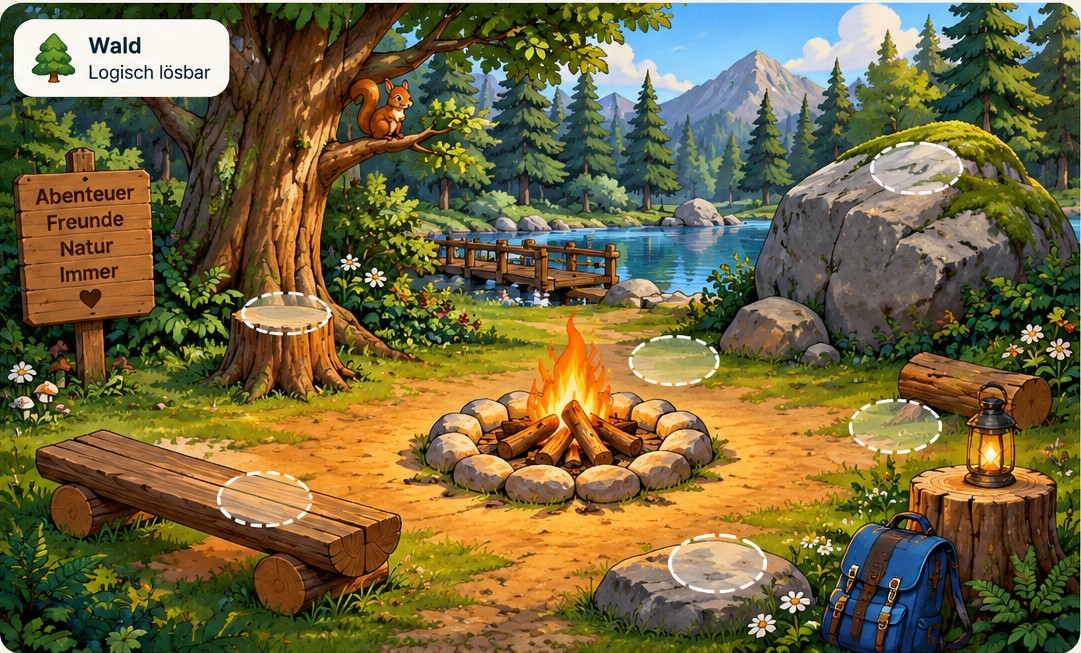
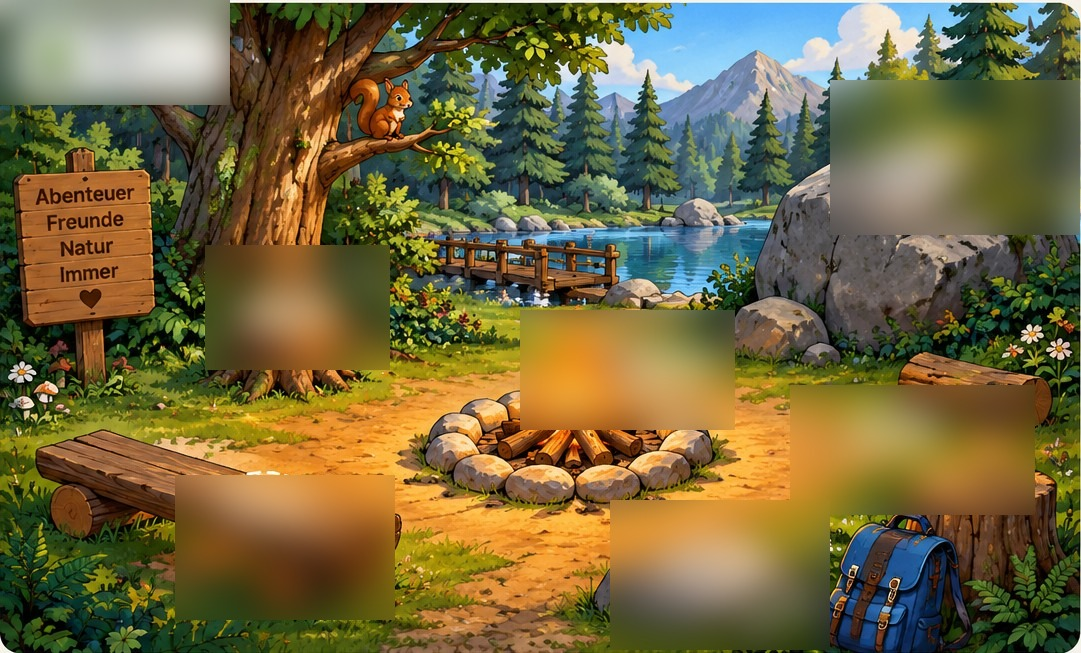
Add files via upload

diff --git a/index.html b/index.html
@@ -83,7 +83,7 @@ header{margin:0 2px 8px}.brand{font-size:31px}.infobtn{width:42px;height:42px;fo
 /* 0.7.7: Platzspiel-Schwierigkeit und sicherer Einstieg */
 .seat-diffbar{display:flex;gap:7px;margin:0 0 9px}.seat-diffbar button{flex:1;border:1px solid #0001;background:#fff9;border-radius:999px;padding:7px 6px;font:inherit;font-size:11px;font-weight:850;color:var(--ink)}.seat-diffbar button.active{background:var(--ink);color:#fff}
 .clue.entry{box-shadow:inset 4px 0 0 #2f7d4b;background:#f1fbf3}.clue.entry span:after{content:"  · Sicherer Einstieg";font-size:10px;color:#2f7d4b;font-weight:900}.clue.chain{box-shadow:inset 4px 0 0 #7aa7c7}.clue.weak{box-shadow:inset 4px 0 0 #d8a84e;background:#fffaf0}.clue.weak span:after{content:"  · Zusatzhinweis";font-size:10px;color:#9a6b16;font-weight:900}
-</style></head><body><main class="app"><header><div class="brand">Wildoku 🦊 <span class="beta-label">BETA</span></div><div class="topactions"><button class="infobtn" id="infoBtn" aria-label="Anleitung">?</button><div class="badge" id="net">bereit</div></div></header><div class="game-switch"><button id="gameWildoku" class="active">🦊 Wildoku</button><button id="gameSeats">🪑 Platzspiel</button></div><div class="updatebar" id="updatebar"><span id="updatebarText">Neue Wildoku-Version verfügbar.</span><div class="updateactions"><button class="secondary" id="updateLater">Später</button><button id="updatebtn">Jetzt aktualisieren</button></div></div><div class="wildoku-game" id="wildokuGame"><div class="sizebar" id="sizebar"><button class="sizebtn" data-size="5">5×5</button><button class="sizebtn active" data-size="6">6×6</button><button class="sizebtn" data-size="7">7×7</button><button class="sizebtn" data-size="8">8×8</button><button class="sizebtn" data-size="random">🎲 Zufall</button></div><div class="diffbar" id="diffbar"><button class="diffbtn" data-diff="relaxed">Entspannt</button><button class="diffbtn active" data-diff="normal">Normal</button><button class="diffbtn" data-diff="tricky">Knifflig</button></div><section class="info"><div><div class="level" id="level">Rätsel</div><div class="sub" id="sub">Wird lokal erzeugt …</div></div><div class="rightinfo"><div class="lives" id="lives">❤❤❤</div><div class="timer" id="timer">00:00</div></div></section><div class="boardwrap"><div class="board" id="board"></div><div class="creating" id="creating">Bitte warten …<br>Level wird erstellt</div></div><div class="status" id="status"></div><div class="helps"><button class="helpbtn" id="hint">💡 Tipp <span id="hintCount">3</span></button><button class="helpbtn" id="reveal">🦊 Tier zeigen <span id="revealCount">1</span></button></div><div class="hintbox" id="hintbox"></div><div class="controls"><button class="btn" id="undo">↶ Rückgängig</button><button class="btn" id="new">✨ Neues Rätsel</button><button class="btn" id="reset">↻ Neustart</button></div><div class="legend"><b>Bedienung:</b> 1× tippen = ✕ Ausschluss · 2× tippen = 🦊 Tier · gedrückt halten = ? Kandidat.</div></div><section class="seatgame" id="seatGame"><div class="seat-title"><div><h2>🪑 Platzrätsel</h2><small id="seatSceneName">🏫 Klassenzimmer · logisch lösbar</small></div><div id="seatLives">❤❤❤</div></div><div class="seat-diffbar" id="seatDiffbar"><button data-seatdiff="relaxed">Entspannt</button><button data-seatdiff="normal" class="active">Normal</button><button data-seatdiff="tricky">Knifflig</button></div><div class="seat-scene"><div class="place-scene scene-classroom" id="classroom"></div><div class="seatbank" id="seatBank"></div><div class="seat-status" id="seatStatus">Ziehe die Personen anhand der Hinweise auf ihre Plätze.</div></div><div class="clues" id="seatClues"></div><div class="seat-help"><button id="seatReset">↻ Neustart</button><button id="seatHint">💡 Tipp</button></div></section></main><div class="modal" id="infoModal"><div class="modalcard"><div id="wildHelp"><h2>🦊 Wildoku – Hilfe</h2><p><b>1× tippen</b> = ✕ Ausschluss<br><b>2× tippen</b> = 🦊 Tier<br><b>Gedrückt halten</b> = ? Kandidat</p><p>In jeder Zeile, Spalte und Farbregion steht genau ein Tier. Tiere dürfen sich auch diagonal nicht berühren.</p><p>Du hast pro Rätsel <b>3 Leben</b>, <b>3 Tipps</b> und <b>1× Tier zeigen</b>.</p><div class="settingrow"><span><b>Zonengrenzen</b><br><small>Nur für Wildoku</small></span><button class="switch" id="regionToggle">Ein</button></div><p class="difficulty-note">Entspannt: direkte Logik · Normal: längere Schlussketten · Knifflig: darf gelegentlich eine Annahme verlangen.</p></div><div id="seatHelp" style="display:none"><h2>🪑 Platzspiel – Hilfe</h2><p>Ziehe eine Figur auf einen Platz oder tippe zuerst die Figur und danach den Platz an. Eine ausgewählte Figur wird deutlich markiert.</p><p>Nutze die Hinweise als Logikkette. <b>Entspannt</b> bietet mehr direkte Einstiege, <b>Normal</b> kombiniert Namen und sichtbare Merkmale, <b>Knifflig</b> darf gelegentlich zwei plausible Möglichkeiten offenlassen. Du hast <b>3 Leben</b>.</p><p>Hinweise können Personen auch über Merkmale beschreiben, z. B. „der Mann mit dem Bart“ oder „die Frau mit dem Hut“. In Waldleveln kann auch der <b>Wildoku-Fuchs</b> selbst mitspielen.</p></div><hr style="border:0;border-top:1px solid #0001;margin:16px 0"><p class="difficulty-note">Wildoku Beta 0.9.8</p><div class="settingrow"><span><b>Internet in Wildoku</b><br><small id="networkModeText">Erlaubt automatische Updateprüfung</small></span><button class="switch" id="networkToggle">Online</button></div><div class="settingrow"><span><b>Updates</b><br><small id="updateStatus">Manuell nach einer neuen Version suchen</small></span><button class="switch" id="checkUpdateBtn">Suchen</button></div><div class="sharecard"><b>📱 Wildoku teilen</b><p>„Ich hab ein Spiel mit ChatGPT gemacht. Wenn du magst, kannst du es auch spielen. Ich kann dir den Link schicken oder du scannst den QR-Code.“</p><img id="shareQr" alt="QR-Code zu Wildoku"><div class="shareactions"><button id="shareLinkBtn">Link teilen</button><button id="copyLinkBtn">Link kopieren</button></div><div class="shareinstall"><p><b>📱 Als App installieren</b><br><b>iPhone / iPad:</b> in Safari öffnen → Teilen → „Zum Home-Bildschirm“.<br><b>Android:</b> in Chrome öffnen → Menü ⋮ → „Zum Startbildschirm hinzufügen“ bzw. „App installieren“.</p><p><b>Danach auch offline spielbar.</b> Keine Werbung, kein Konto nötig.</p></div></div><button class="modalclose" id="infoClose">Schließen</button></div></div><div class="toast" id="toast"></div>
+</style></head><body><main class="app"><header><div class="brand">Wildoku 🦊 <span class="beta-label">BETA</span></div><div class="topactions"><button class="infobtn" id="infoBtn" aria-label="Anleitung">?</button><div class="badge" id="net">bereit</div></div></header><div class="game-switch"><button id="gameWildoku" class="active">🦊 Wildoku</button><button id="gameSeats">🪑 Platzspiel</button></div><div class="updatebar" id="updatebar"><span id="updatebarText">Neue Wildoku-Version verfügbar.</span><div class="updateactions"><button class="secondary" id="updateLater">Später</button><button id="updatebtn">Jetzt aktualisieren</button></div></div><div class="wildoku-game" id="wildokuGame"><div class="sizebar" id="sizebar"><button class="sizebtn" data-size="5">5×5</button><button class="sizebtn active" data-size="6">6×6</button><button class="sizebtn" data-size="7">7×7</button><button class="sizebtn" data-size="8">8×8</button><button class="sizebtn" data-size="random">🎲 Zufall</button></div><div class="diffbar" id="diffbar"><button class="diffbtn" data-diff="relaxed">Entspannt</button><button class="diffbtn active" data-diff="normal">Normal</button><button class="diffbtn" data-diff="tricky">Knifflig</button></div><section class="info"><div><div class="level" id="level">Rätsel</div><div class="sub" id="sub">Wird lokal erzeugt …</div></div><div class="rightinfo"><div class="lives" id="lives">❤❤❤</div><div class="timer" id="timer">00:00</div></div></section><div class="boardwrap"><div class="board" id="board"></div><div class="creating" id="creating">Bitte warten …<br>Level wird erstellt</div></div><div class="status" id="status"></div><div class="helps"><button class="helpbtn" id="hint">💡 Tipp <span id="hintCount">3</span></button><button class="helpbtn" id="reveal">🦊 Tier zeigen <span id="revealCount">1</span></button></div><div class="hintbox" id="hintbox"></div><div class="controls"><button class="btn" id="undo">↶ Rückgängig</button><button class="btn" id="new">✨ Neues Rätsel</button><button class="btn" id="reset">↻ Neustart</button></div><div class="legend"><b>Bedienung:</b> 1× tippen = ✕ Ausschluss · 2× tippen = 🦊 Tier · gedrückt halten = ? Kandidat.</div></div><section class="seatgame" id="seatGame"><div class="seat-title"><div><h2>🪑 Platzrätsel</h2><small id="seatSceneName">🏫 Klassenzimmer · logisch lösbar</small></div><div id="seatLives">❤❤❤</div></div><div class="seat-diffbar" id="seatDiffbar"><button data-seatdiff="relaxed">Entspannt</button><button data-seatdiff="normal" class="active">Normal</button><button data-seatdiff="tricky">Knifflig</button></div><div class="seat-scene"><div class="place-scene scene-classroom" id="classroom"></div><div class="seatbank" id="seatBank"></div><div class="seat-status" id="seatStatus">Ziehe die Personen anhand der Hinweise auf ihre Plätze.</div></div><div class="clues" id="seatClues"></div><div class="seat-help"><button id="seatReset">↻ Neustart</button><button id="seatHint">💡 Tipp</button></div></section></main><div class="modal" id="infoModal"><div class="modalcard"><div id="wildHelp"><h2>🦊 Wildoku – Hilfe</h2><p><b>1× tippen</b> = ✕ Ausschluss<br><b>2× tippen</b> = 🦊 Tier<br><b>Gedrückt halten</b> = ? Kandidat</p><p>In jeder Zeile, Spalte und Farbregion steht genau ein Tier. Tiere dürfen sich auch diagonal nicht berühren.</p><p>Du hast pro Rätsel <b>3 Leben</b>, <b>3 Tipps</b> und <b>1× Tier zeigen</b>.</p><div class="settingrow"><span><b>Zonengrenzen</b><br><small>Nur für Wildoku</small></span><button class="switch" id="regionToggle">Ein</button></div><p class="difficulty-note">Entspannt: direkte Logik · Normal: längere Schlussketten · Knifflig: darf gelegentlich eine Annahme verlangen.</p></div><div id="seatHelp" style="display:none"><h2>🪑 Platzspiel – Hilfe</h2><p>Ziehe eine Figur auf einen Platz oder tippe zuerst die Figur und danach den Platz an. Eine ausgewählte Figur wird deutlich markiert.</p><p>Nutze die Hinweise als Logikkette. <b>Entspannt</b> bietet mehr direkte Einstiege, <b>Normal</b> kombiniert Namen und sichtbare Merkmale, <b>Knifflig</b> darf gelegentlich zwei plausible Möglichkeiten offenlassen. Du hast <b>3 Leben</b>.</p><p>Hinweise können Personen auch über Merkmale beschreiben, z. B. „der Mann mit dem Bart“ oder „die Frau mit dem Hut“. In Waldleveln kann auch der <b>Wildoku-Fuchs</b> selbst mitspielen.</p></div><hr style="border:0;border-top:1px solid #0001;margin:16px 0"><p class="difficulty-note">Wildoku Beta 0.9.9</p><div class="settingrow"><span><b>Internet in Wildoku</b><br><small id="networkModeText">Erlaubt automatische Updateprüfung</small></span><button class="switch" id="networkToggle">Online</button></div><div class="settingrow"><span><b>Updates</b><br><small id="updateStatus">Manuell nach einer neuen Version suchen</small></span><button class="switch" id="checkUpdateBtn">Suchen</button></div><div class="sharecard"><b>📱 Wildoku teilen</b><p>„Ich hab ein Spiel mit ChatGPT gemacht. Wenn du magst, kannst du es auch spielen. Ich kann dir den Link schicken oder du scannst den QR-Code.“</p><img id="shareQr" alt="QR-Code zu Wildoku"><div class="shareactions"><button id="shareLinkBtn">Link teilen</button><button id="copyLinkBtn">Link kopieren</button></div><div class="shareinstall"><p><b>📱 Als App installieren</b><br><b>iPhone / iPad:</b> in Safari öffnen → Teilen → „Zum Home-Bildschirm“.<br><b>Android:</b> in Chrome öffnen → Menü ⋮ → „Zum Startbildschirm hinzufügen“ bzw. „App installieren“.</p><p><b>Danach auch offline spielbar.</b> Keine Werbung, kein Konto nötig.</p></div></div><button class="modalclose" id="infoClose">Schließen</button></div></div><div class="toast" id="toast"></div>
 <script>
 let N=6; const ANIMAL='🦊'; let sizeMode=localStorage.getItem('wildokuSizeMode')||'6';let difficultyMode=localStorage.getItem('wildokuDifficulty')||'normal',activeDifficulty=difficultyMode;let showRegionBorders=localStorage.getItem('wildokuRegionBorders')!=='0';
 const board=document.getElementById('board'),status=document.getElementById('status'),toast=document.getElementById('toast');
@@ -201,7 +201,7 @@ function net(){let n=document.getElementById('net');if(!networkAllowed){n.textCo
 function applyNetworkMode(){let b=document.getElementById('networkToggle'),t=document.getElementById('networkModeText');if(b){b.textContent=networkAllowed?'Online':'Offline';b.classList.toggle('off',!networkAllowed)}if(t)t.textContent=networkAllowed?'Wildoku darf für Updates ins Internet':'Wildoku nutzt keine Internetverbindung';net()}
 document.getElementById('networkToggle').onclick=()=>{networkAllowed=!networkAllowed;localStorage.setItem('wildokuNetworkAllowed',networkAllowed?'1':'0');applyNetworkMode();if(networkAllowed&&navigator.onLine)explicitVersionCheckGlobal()};
 addEventListener('online',net);addEventListener('offline',net);applyNetworkMode();
-const APP_VERSION='0.9.8';
+const APP_VERSION='0.9.9';
 async function fetchServerVersion(){
   // Immer dieselbe Wildoku-Installation ansprechen, unabhängig davon,
   // ob die PWA über /wildoku/, /wildoku/index.html oder mit Query gestartet wurde.
@@ -678,6 +678,38 @@ body.seat-active .seat-status{font-size:13px!important;margin-top:4px!important;
  syncMenu();
 })();
 </script>
+
+<style id="wald-099-css">
+/* 0.9.9: Die Waldgrafik ist die Szene. Keine technischen Hotspot-Kreise oder Labels. */
+#classroom.real-forest-scene .seat,
+#classroom.real-forest-scene .seat.targetable,
+#classroom.real-forest-scene .seat.dropfocus{
+  border:0!important;outline:0!important;background:transparent!important;box-shadow:none!important;
+}
+#classroom.real-forest-scene .seat-label{display:none!important;visibility:hidden!important;color:transparent!important}
+#classroom.real-forest-scene .seat.targetable::after{
+  content:"";position:absolute;inset:18%;border-radius:999px;background:rgba(255,255,255,.16);box-shadow:0 0 0 2px rgba(255,255,255,.38);pointer-events:none;
+}
+#classroom.real-forest-scene .seat.dropfocus::after{
+  content:"";position:absolute;inset:12%;border-radius:999px;background:rgba(255,244,180,.28);box-shadow:0 0 0 3px rgba(255,190,0,.72);pointer-events:none;
+}
+</style>
+<script id="wald-099-js">
+(function(){
+  // Interne Ortsnamen bleiben reine Logikdaten und werden nie in die Szene gerendert.
+  const prior=renderScene;
+  renderScene=function(){
+    prior();
+    const e=document.getElementById('classroom');
+    e.querySelectorAll('.seat-label').forEach(x=>x.remove());
+    e.querySelectorAll('.scene-landmark').forEach(x=>x.remove());
+  };
+  // Bereits sichtbare technische Elemente sofort entfernen.
+  const e=document.getElementById('classroom');
+  if(e){e.querySelectorAll('.seat-label,.scene-landmark').forEach(x=>x.remove())}
+})();
+</script>
+
 </body></html>
 
 <style>

diff --git a/sw.js b/sw.js
@@ -1,4 +1,4 @@
-const CACHE='wildoku-beta-0.9.8';
+const CACHE='wildoku-beta-0.9.9';
 const APP_SHELL=['./','./index.html','./manifest.webmanifest','./icon-192.png','./icon-512.png','./fox-avatar.png','./forest-scene.jpg','./fox-character.png','./hannah-character.png','./ben-character.png','./clara-character.png','./marcel-character.png','./tom-character.png'];
 
 self.addEventListener('install',event=>{
